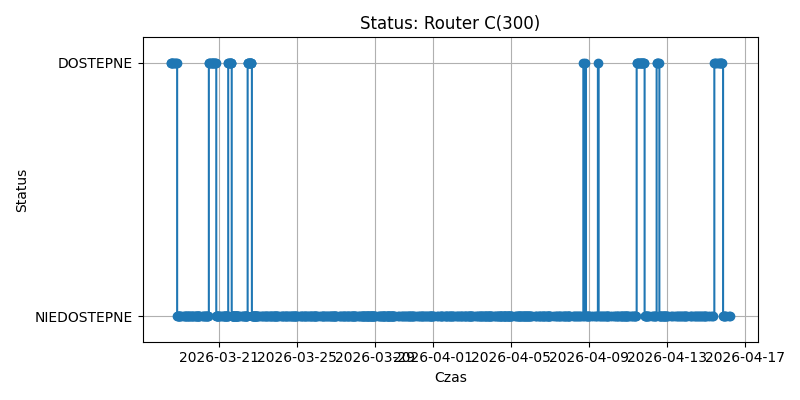
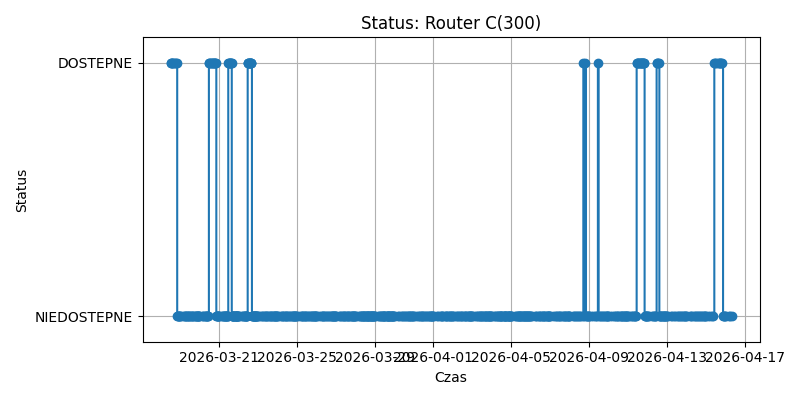
Automatyczna aktualizacja monitoringu

Changed region(s): [[0.4375, 0.03, 0.6875, 0.09]]

diff --git a/index.html b/index.html
@@ -33,5 +33,5 @@ img { border: 1px solid #ccc; border-radius: 8px; }
                 <div>Router C(300)</div>
                 <img src="chart_Router C(300).png" alt="Router C(300)" style="max-width:600px; margin-top:10px;">
             </div>
-            <p>Ostatnia zmiana: 2026-04-16 05:52:34</p>
+            <p>Ostatnia zmiana: 2026-04-16 07:21:22</p>
 </body></html>
